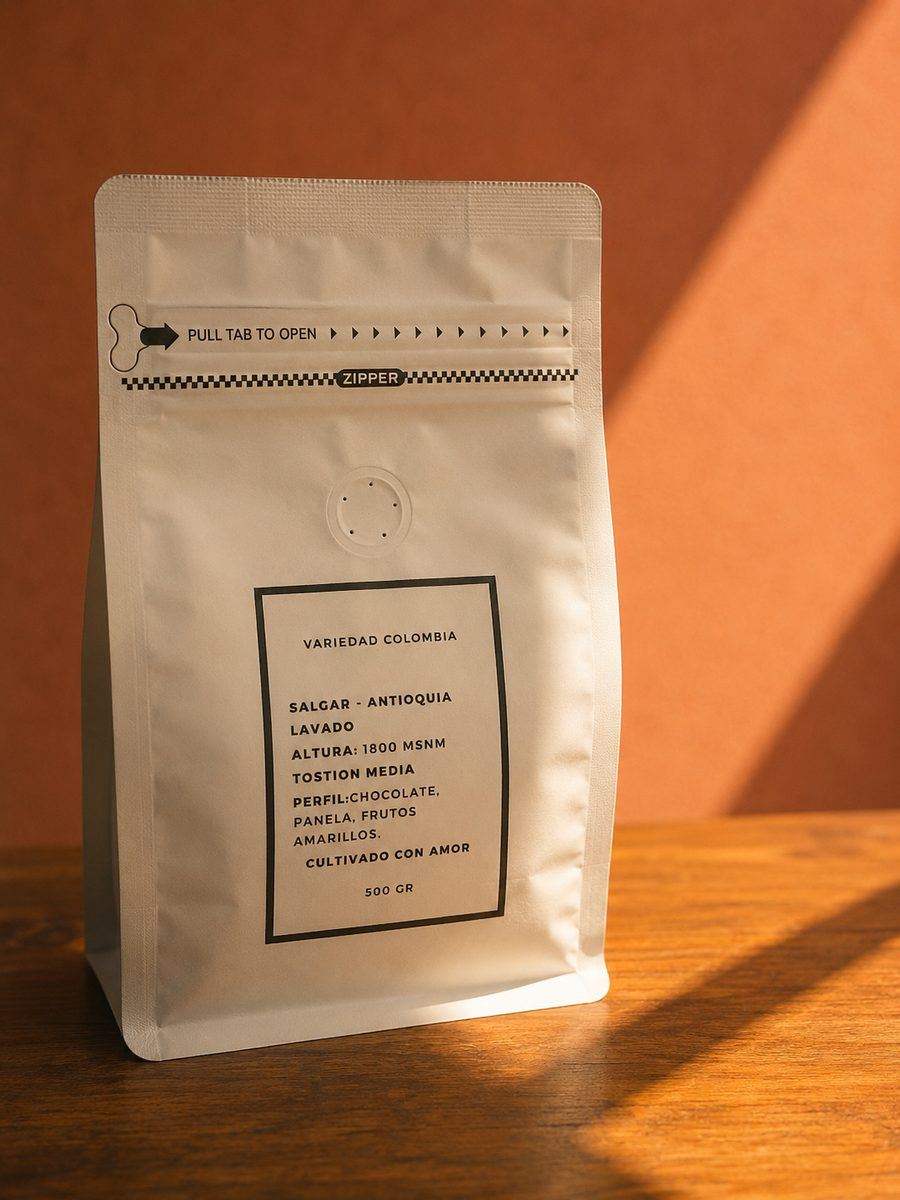
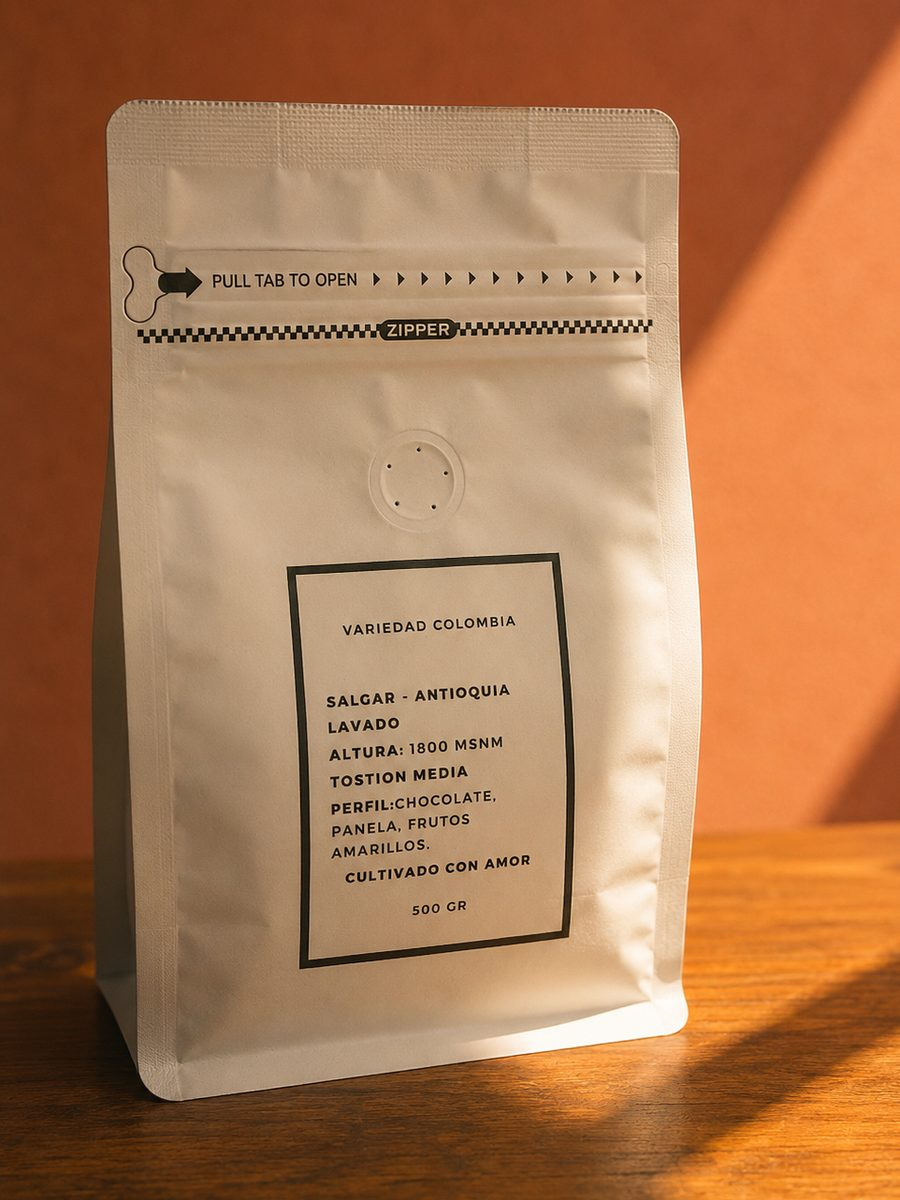
fix: recortar fotos del cafe a 3:4 y volver a object-cover
Las fotos se recortan a 3:4 alrededor de la bolsa, asi object-cover llena
el bloque sin franjas de fondo y sin cortar el producto.

diff --git a/index.html b/index.html
@@ -1121,7 +1121,7 @@
                     <div class="relative border-b-[6px] md:border-b-0 md:border-r-[6px] border-negro overflow-hidden">
                         <img src="img/cafe-bolsa-marca.jpg" width="900" height="1200" loading="lazy" decoding="async"
                             alt="Bolsa de café Refugios con el logo de la marca"
-                            class="w-full h-80 md:h-full object-contain bg-brand-light">
+                            class="w-full h-80 md:h-full object-cover object-center">
                         <span
                             class="absolute top-4 left-4 bg-blanco border-[4px] border-negro px-3 py-1 text-[10px] md:text-xs font-bold uppercase tracking-widest text-negro transform -rotate-3">Tostado
                             en Colombia</span>
@@ -1196,16 +1196,16 @@
                 </div>
 
                 <!-- Tira de fotos -->
-                <div class="grid grid-cols-3 border-t-[6px] border-negro bg-brand-light">
+                <div class="grid grid-cols-3 border-t-[6px] border-negro">
                     <img src="img/cafe-bolsa-250.jpg" width="960" height="1200" loading="lazy" decoding="async"
                         alt="Bolsa de café Refugios de 250 gramos sobre mesa de madera"
-                        class="w-full aspect-[3/4] object-contain border-r-[6px] border-negro">
+                        class="w-full aspect-[3/4] object-cover object-center border-r-[6px] border-negro">
                     <img src="img/cafe-bolsa-detalle.jpg" width="900" height="1200" loading="lazy" decoding="async"
                         alt="Detalle de la etiqueta con el perfil de taza del café"
-                        class="w-full aspect-[3/4] object-contain border-r-[6px] border-negro">
+                        class="w-full aspect-[3/4] object-cover object-center border-r-[6px] border-negro">
                     <img src="img/cafe-bolsa-500.jpg" width="900" height="1200" loading="lazy" decoding="async"
                         alt="Bolsa de café Refugios de 500 gramos"
-                        class="w-full aspect-[3/4] object-contain">
+                        class="w-full aspect-[3/4] object-cover object-center">
                 </div>
             </div>
         </section>
